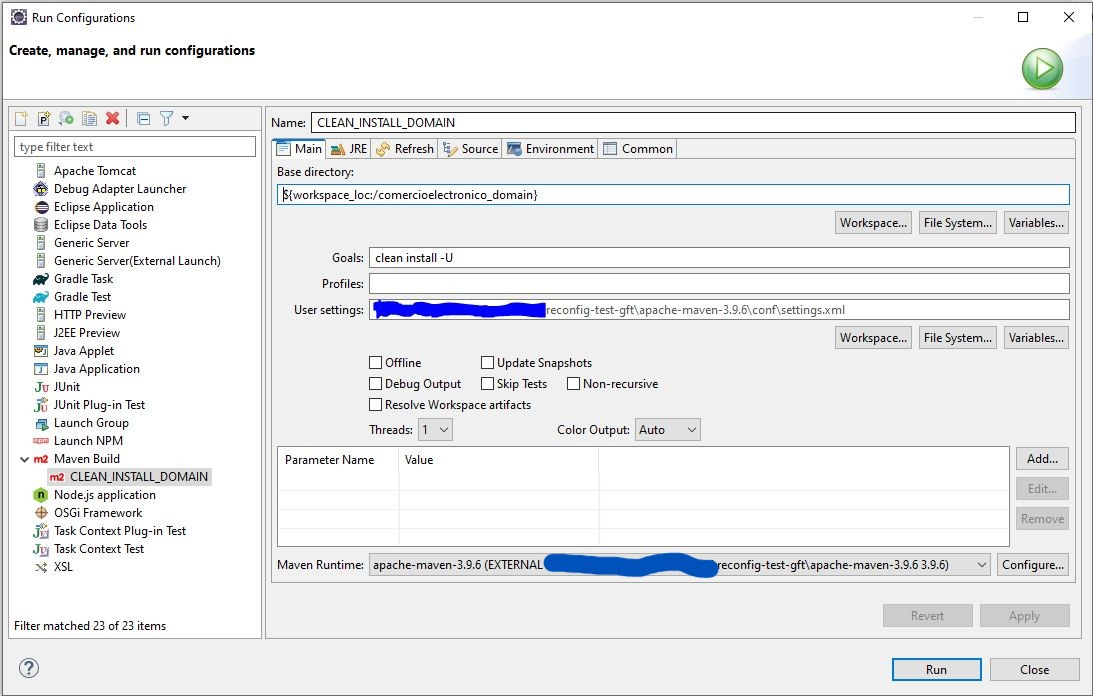
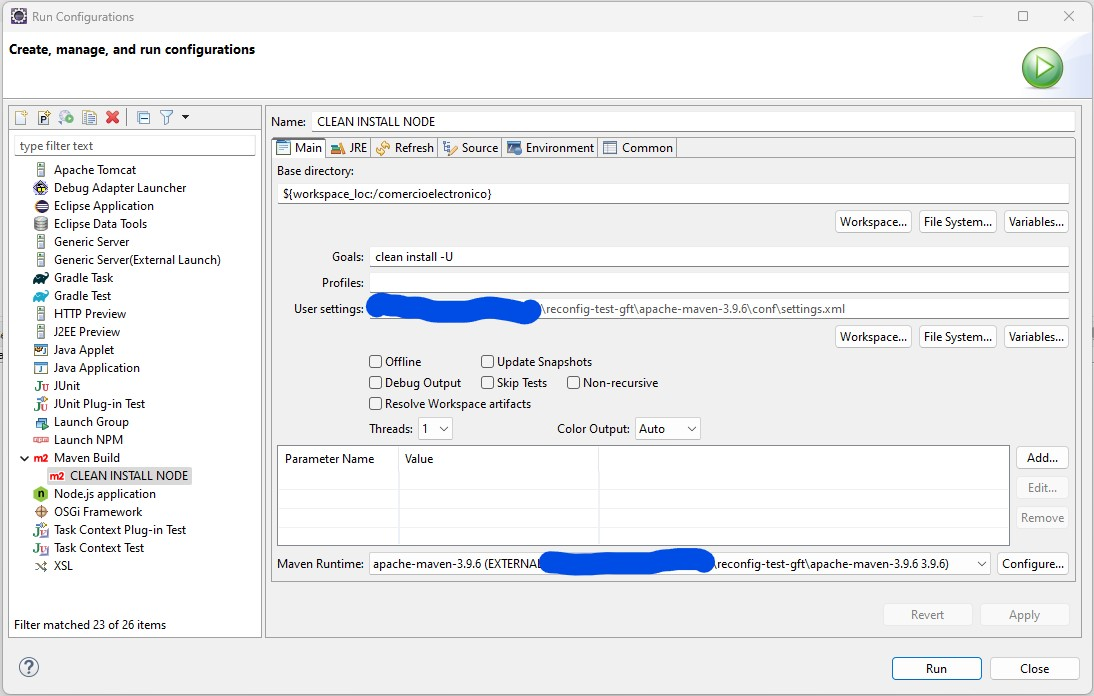
actualizar el readme

Changed region(s): [[0.0, 0.0, 1.0, 1.0], [0.2489, 0.5129, 0.6532, 0.6638], [0.0, 0.0, 0.2489, 0.0905]]

diff --git a/README.md b/README.md
@@ -8,7 +8,7 @@
 
 ## Funcionalidades: 
 
-  - Recuperar el precio de un producto de una tienda del grupo a una fecha dada. Pudiendo tener varios precios disponible para ese instante, usando la prioridad     como Desambiguador.
+  - Recuperar el precio de un producto de una tienda del grupo a una fecha dada. Pudiendo tener varios precios disponible para ese instante, usando la prioridad como Desambiguador.
 
 ## Installación
 
@@ -18,46 +18,43 @@
  - java SE 21: https://download.oracle.com/java/21/latest/jdk-21_windows-x64_bin.zip
  - Maven 3.9.6 : https://dlcdn.apache.org/maven/maven-3/3.9.6/binaries/
 
-### Configuracion de los proyectos (DOMINIO y PROYECTO WEB)
+### Configuracion de los proyectos: comercioelectronico (Núcleo, contiene nuestro y la implementacion de la lógica de negocio) y comercioelectronico_insfrastructure (contiene los adapters web, persitencia, y e2e tests)
 
 - Configurar el jdk en nuestro workspace de ecplise
 ![Project Logo](static/002_config_jdk_eclipse.jpg)
 
-- Configurar de  maven, y también del parmateros del usuario(configuracion del setting.xml, repositorio local)
+- Configurar maven, al igual que los parámetros de usuario(configuracion del setting.xml,       repositorio local)
   ![Project Logo](static/003_config_mvn.JPG)
   ![Project Logo](static/004_config_mvn_usersettings.JPG)
 
-- Una vez tenemos listo a nuestro workspace, importamos EL DOMINIO que es un proyecto aislado y en el núcleo que contiene nuestra lógica de negocio
+- Una vez tenemos listo nuestro workspace. Empezaremos por el proyecto comercioelectronico (dominio y applicación), es una librería aislada y es el núcleo del proyecto.
 
   ![Project Logo](static/005_import_domain.JPG)
 
 - Configurar el BUILD (clean install) de nuestra libreria
   ![Project Logo](static/006_config_build_domain.JPG)
+  ![Project Logo](static/0061_clean_install_domain.JPG)
 
-- Ahora ya que tenemos ya tenemos al dominio funcional, configuraremos el Proyecto web
+- Ahora que  ya tenemos al dominio funcional, configuramos el proyecto con la infraestructura, que contiene los adaptadores web, persistencia...
   
-  ![Project Logo](static/007_import_project.JPG)
+  ![Project Logo](static/007_import_project_infraestructure.JPG)
 
-- Configurar el BUILD del proyecto web también, pero esta vez DESACTIVANDO LOS TESTS para que no se lance el módulo de testing-e2e
-  ![Project Logo](static/008_config_build_project_web.JPG)
+- Configurar el BUILD del proyecto infra también
+  ![Project Logo](static/008_config_build_project_infra.JPG)
 
 - Este deberia ser el resultado  que deberíamos obtener una vez configurado el proyecto el local
-  ![Project Logo](static/009_resultado_Build.JPG)
+  ![Project Logo](static/009_resultado_Build_infra.JPG)
 
-- Ejecutar el proyecto!! Siendo una api springboot, lleva incorporado las libreria de tomcat, con ejecutar el MAIN como cualquier proyecto java es suficiente.
-  Se ejecutará sobre el puerto 8082 
+- Ejecutar el proyecto!! Siendo una api springboot, ya lleva incorporado las libreria de tomcat. Simplemente ejecutamos el MAIN como cualquier proyecto java.
+
+Se ejecutará sobre el puerto 8082 
   ![Project Logo](static/010-ejecutar_api.JPG)
 
 - Una vez el proyecto en ejecución. Lanzar los tests end-to-end des del modulo de testing.
-  EJECUTAR LA CLASE KarateUniTest con JUNIT. En la captura, podemos ver que karate tambien nos permite consultar el informe de los test en el navegador gracias al enlace que vemos.
+  EJECUTAR LA CLASE KarateUniTest con JUNIT, rehabilitando la clase test comentando la annotación @Disabled.
+  En la captura, podemos ver que karate tambien nos permite consultar el informe de los test en el navegador gracias al enlace que vemos.
   ![Project Logo](static/011_tests_karate_corriendo.JPG)
 
 - Para acceder a la BDD en memoria {url_server:puerto}/h2_console
   la configuración de acceso la entraréis el application.properties
   ![Project Logo](static/012_BDD_en_memoria.JPG)
-
-  
-
-  
-
-  
